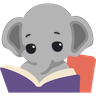
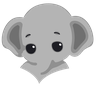
웹도 유저 색 반영 + 새 손(v2) + 폰엔 손 없음 (앱 6337fddc와 한 쌍)
새 손 그림이 **회색으로 바뀌어**(elly_day_hands_v2) 틴트를 입힐 수 있게 됐다.
웹의 기존 규약 `eleWordImg(name, tint, cb)`를 그대로 쓴다 — 몸을 multiply로
굽고 **`-fix` 레이어(소품)는 원색 그대로** 위에 얹는다.

- 에셋을 **몸/소품으로 갈라** 다시 만들었다(full_·hand_·scene_·avatar_ 전부 +
  `-fix`). ⚠ 손은 회색과 고정색(물컵)이 한 장에 섞여 있어 **채도로 갈랐다**.
  ⚠ 합성해 한 장으로 두면 틴트가 공책·폰·서류·물컵까지 물들인다.
- 캡슐 아바타·전신·손·그리드 칩·빈 화면 장면 전부 고른 색을 따른다
  (한 화면에 두 색이면 딴 코끼리로 보인다).
- **폰 상태엔 손을 넣지 않는다**(요청: 강압적) — 폰을 보는데 손이 다가오면 어떤
  모양이든 '내놔'로 읽힌다. 왜 들었는지 묻는 건 말풍선이 이미 한다.
- ⚠ 새 그림은 **팔이 길어져** 들어오는 거리를 14% → 34%/26%로. 예전 값으로는
  화면 밖에서 들어오는 게 아니라 제자리에서 나타나는 것처럼 보인다.

검증: 틴트(#7C5CFF)를 넣고 tired를 골라 스크린샷 — 몸·손은 물들고 **물컵은
원색 그대로**, 폰 상태에선 손이 안 뜬다(display:none). 테스트 8종 통과.

Changed region(s): [[0.0, 0.5625, 1.0, 0.9688]]

diff --git a/index.html b/index.html
@@ -1729,8 +1729,10 @@
      하면 정렬이 맞는다. 따로 자르면 손이 허공을 짚는다. */
   .me-stage{position:relative;width:100%;aspect-ratio:420/415;margin:2px 0 6px}
   .me-stage img{position:absolute;inset:0;width:100%;height:100%;object-fit:contain}
-  .me-hand{opacity:0;transform:translate(14%,14%);
-    transition:opacity .34s ease,transform .5s cubic-bezier(.22,1,.36,1)}
+  /* ⚠ 새 손 그림은 **팔이 길어져** 예전 거리(14%)로는 들어오는 느낌이 안 나고
+     제자리에서 나타나는 것처럼 보인다 — 화면 밖에서 들어오도록 더 멀리서. */
+  .me-hand{opacity:0;transform:translate(34%,26%);
+    transition:opacity .34s ease,transform .55s cubic-bezier(.22,1,.36,1)}
   .me-stage.care .me-hand{opacity:1;transform:none}
   /* 집중 중: 툭 치고 **물러난다** (방해하지 않는 게 이 상태의 전부다). */
   .me-stage.care.withdraw .me-hand{opacity:0;transform:translate(18%,18%)}
@@ -5161,8 +5163,10 @@
     /* 할 일이 하나도 없을 때 (요청 set_d): 글자 한 줄 대신 **빈 노트 앞에 앉아
        기다리는 엘리**. ⚠ 엘리는 말하지 않는다 — 한 줄은 내 말투로 남긴다. */
     if(!scheduled.length&&!backlog.length){
-      list.innerHTML='<div class="scene-empty"><img src="assets/scene_empty.png" alt="">'+
+      list.innerHTML='<div class="scene-empty"><img id="seImg" src="assets/scene_empty.png" alt="">'+
         '<div class="se-line">오늘은 아직 비어 있어. 하나만 적어 볼까.</div></div>';
+      eleWordImg('scene_empty',eleTint(),function(u){
+        var el=document.getElementById('seImg');if(el&&u)el.src=u;});
       return;}
     if(scheduled.length){
       var mon=(calSel.getMonth()+1),day=calSel.getDate();
@@ -9548,7 +9552,11 @@
   var AVATAR_STATES=['focus','phone','distract','overload','messy','tired','refuse'];
   function avatarSVG(state){
     var st=(AVATAR_STATES.indexOf(state)>=0)?state:'focus';
-    return '<img src="assets/avatar_'+st+'.png" alt="" aria-hidden="true">';
+    // 유저가 고른 색을 **몸에만** 굽는다 — 소품은 `-fix`로 원색 그대로(eleWordImg 규약).
+    var id='ava-'+st+'-'+Math.random().toString(16).slice(2,7);
+    eleWordImg('avatar_'+st,eleTint(),function(u){
+      var el=document.getElementById(id);if(el&&u)el.src=u;});
+    return '<img id="'+id+'" src="assets/avatar_'+st+'.png" alt="" aria-hidden="true">';
   }
   /* 지금 내 상태 → 아바타 (설계 법칙: 엘리는 마스코트가 아니라 **내 마음**이다.
      말은 캡슐 글이 하고, 엘리는 **보여주기만** 한다).
@@ -9769,8 +9777,18 @@
   /* 무대에 전신 엘리를 세우고, care면 돌봄 손이 들어온다. */
   function paintMeStage(k,care){
     var st=document.getElementById('meStage');if(!st)return;
-    document.getElementById('meFull').src='assets/full_'+k+'.png';
-    document.getElementById('meHand').src='assets/hand_'+k+'.png';
+    var full=document.getElementById('meFull'),hand=document.getElementById('meHand');
+    full.src='assets/full_'+k+'.png';
+    eleWordImg('full_'+k,eleTint(),function(u){if(u&&full.dataset.k===k)full.src=u;});
+    full.dataset.k=k;
+    /* ⚠ **폰 상태엔 손을 넣지 않는다** (요청): 폰을 보는데 손이 다가오면 어떤
+       모양이든 '내놔'로 읽힌다 — 필요한 건 재촉이 아니라 왜 들었는지 묻는 것뿐. */
+    hand.style.display=(k==='phone')?'none':'';
+    if(k!=='phone'){
+      hand.src='assets/hand_'+k+'.png';
+      eleWordImg('hand_'+k,eleTint(),function(u){if(u&&hand.dataset.k===k)hand.src=u;});
+      hand.dataset.k=k;
+    }
     document.getElementById('meLine').textContent=care?(ME_LINE[k]||''):'';
     document.getElementById('meBubble').classList.toggle('hide',!care);
     /* ⚠ 손은 **다시 들어와야** 한다: 클래스가 이미 붙어 있으면 transition이
@@ -9788,8 +9806,13 @@
     var cur=manualState();
     g.innerHTML=AVATAR_STATES.map(function(k){
       return '<button class="me-item'+(k===cur?' on':'')+'" data-me="'+k+'">'
-        +'<img src="assets/avatar_'+k+'.png" alt="">'+ME_LABEL[k]+'</button>';
+        +'<img id="mei-'+k+'" src="assets/avatar_'+k+'.png" alt="">'+ME_LABEL[k]+'</button>';
     }).join('');
+    // 고른 색은 그리드에도 똑같이 (한 화면에 두 색이면 딴 코끼리로 보인다).
+    AVATAR_STATES.forEach(function(k){
+      eleWordImg('avatar_'+k,eleTint(),function(u){
+        var el=document.getElementById('mei-'+k);if(el&&u)el.src=u;});
+    });
     // 열 때는 지금 상태를 그냥 보여 준다 — 손은 **내가 고른 뒤에만** 들어온다.
     paintMeStage(cur||avatarState(),false);
     document.getElementById('meAct').innerHTML='';
